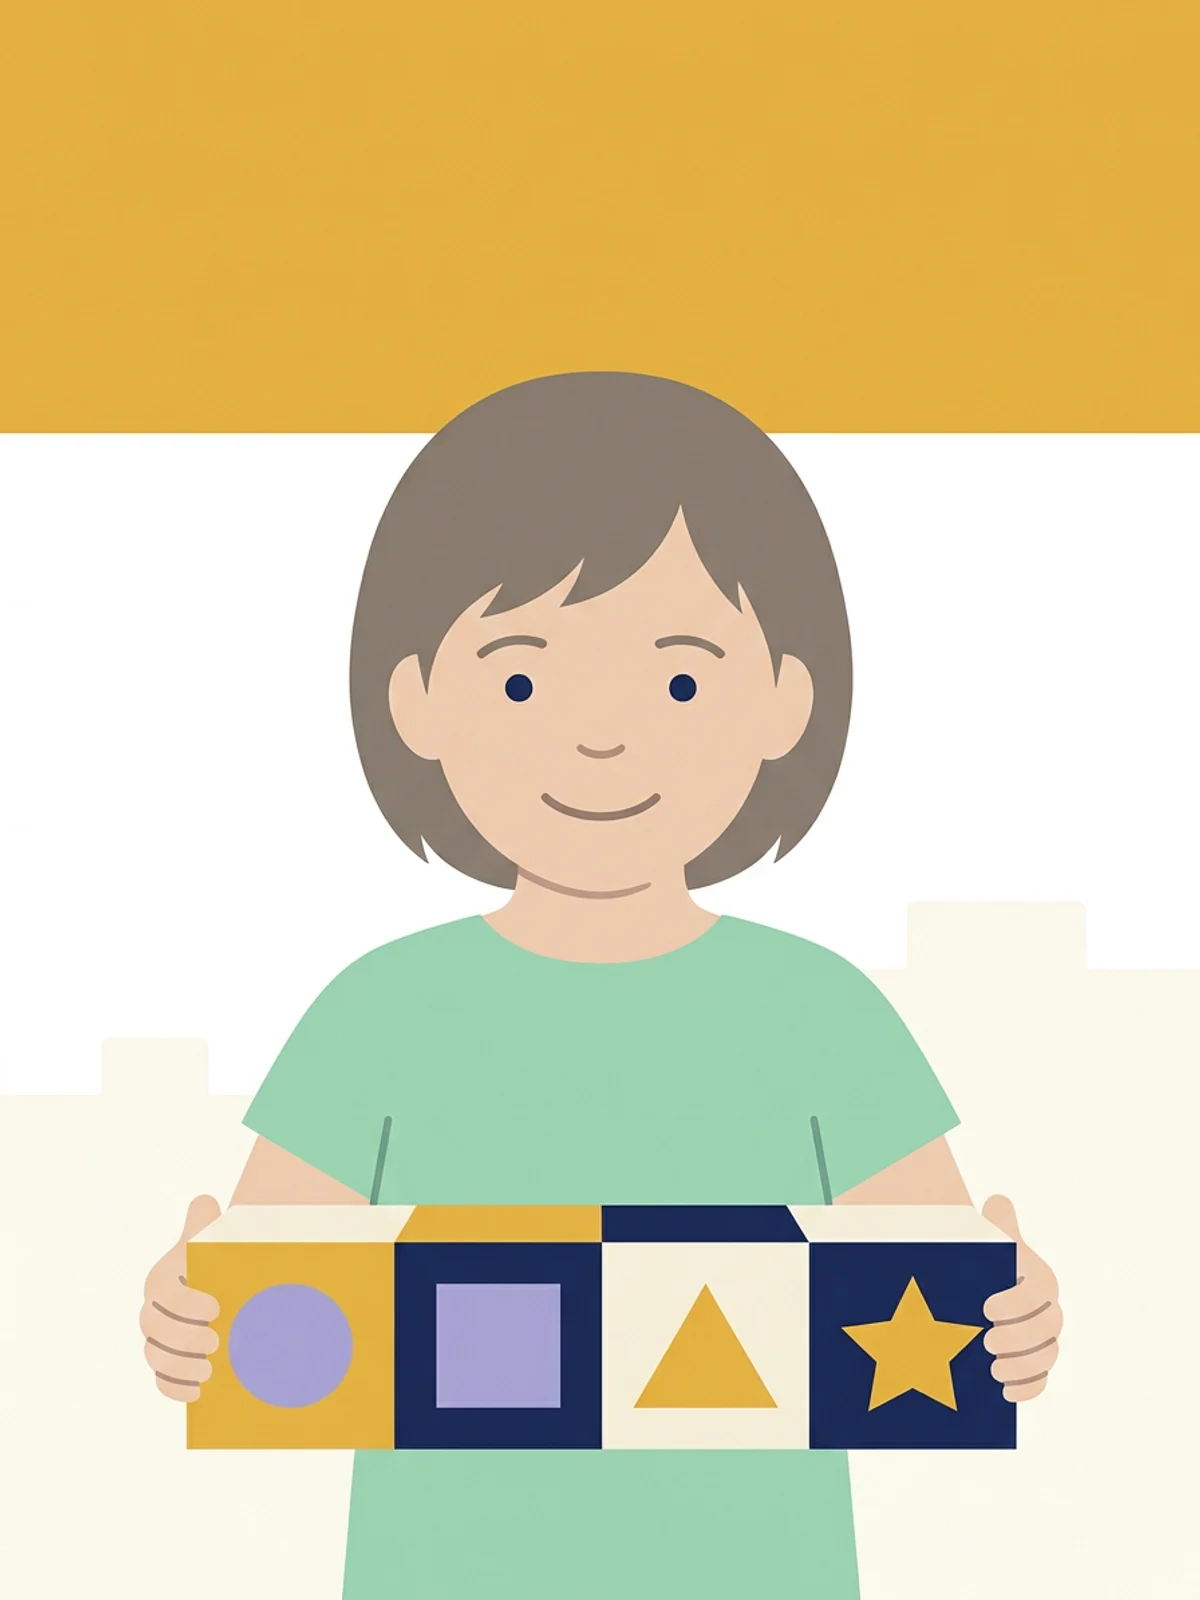
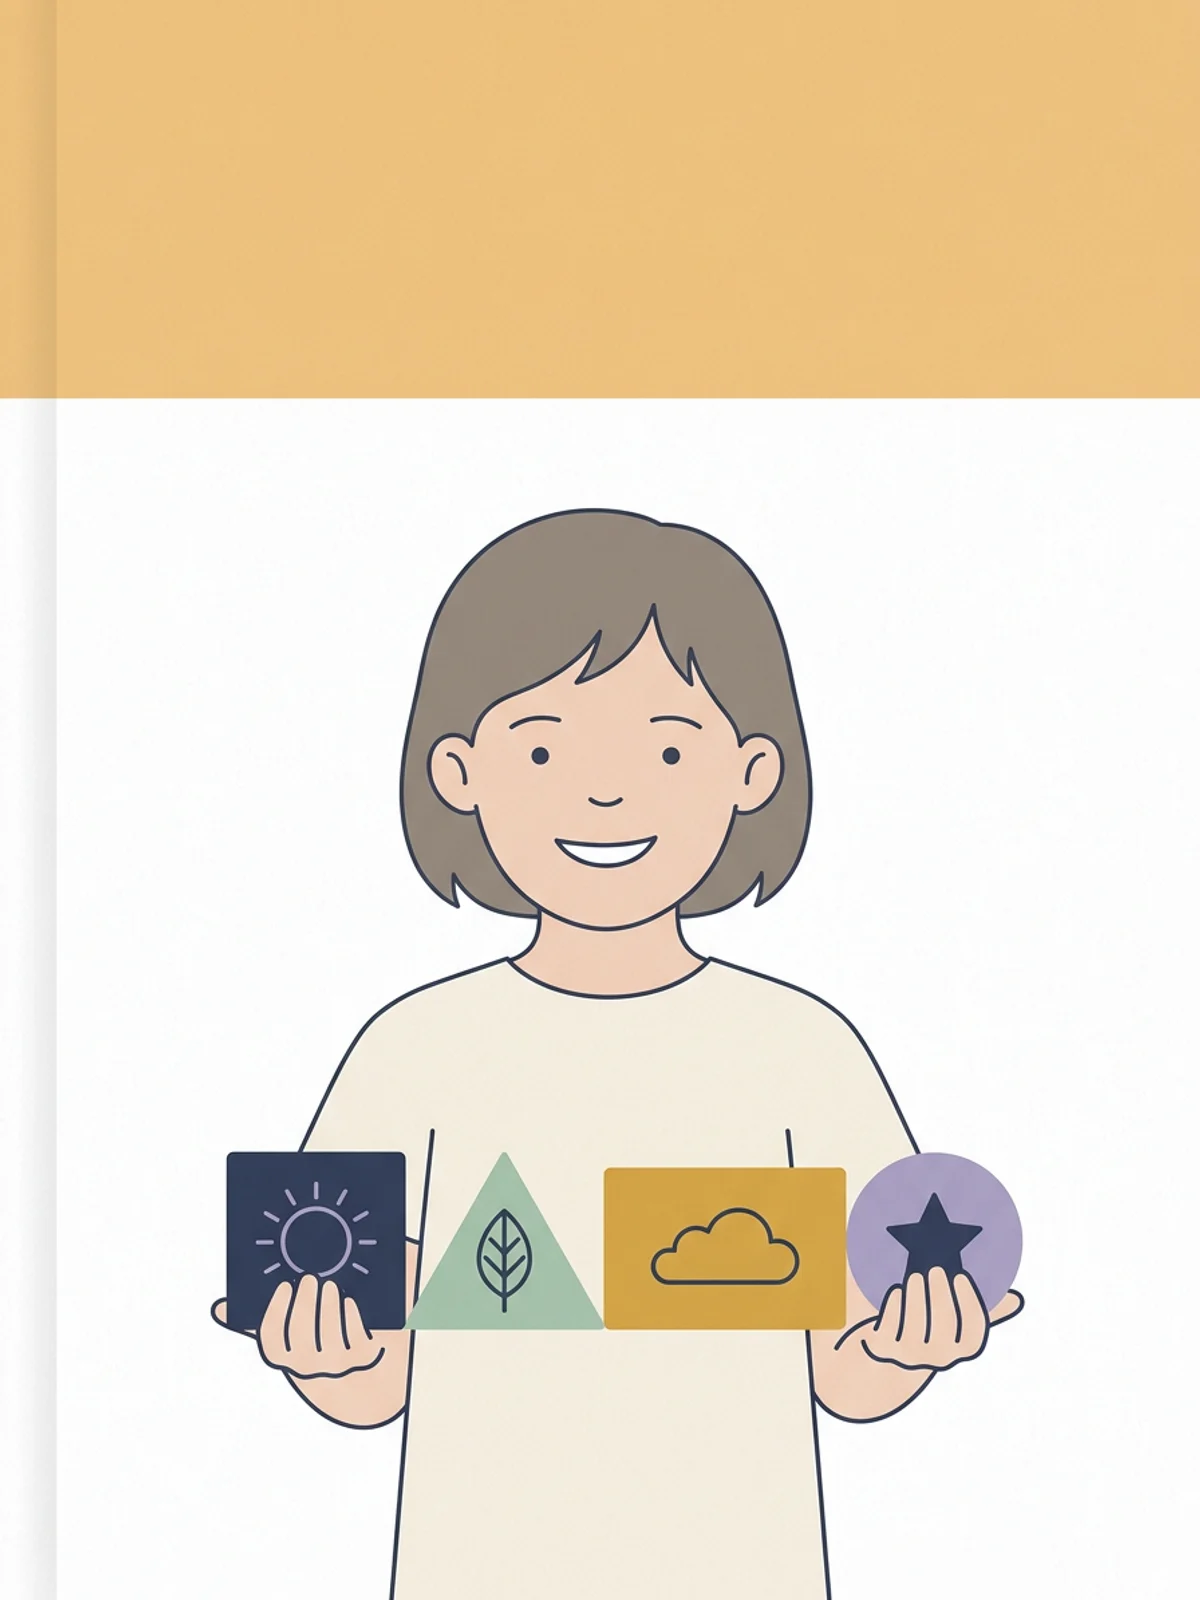
Celebraciones y Profesionales: estilo suave en gouache y minimal, 8 portadas (DECISIONS 257)
Claude-Session: https://claude.ai/code/session_01PcRD3uFYBq84axDNUisoiR

diff --git a/packages/providers/scripts/generate-brand-images.ts b/packages/providers/scripts/generate-brand-images.ts
@@ -29,8 +29,8 @@ const { values, positionals } = parseArgs({
 const OUT = path.resolve(positionals[0] ?? 'brand-images');
 
 // --- Dirección de arte (archivo 01) -------------------------------------------------------------
-const GOUACHE = `Gouache editorial children's picture-book illustration. Opaque matte paint with visible brush texture and subtle paper grain, bold simple shapes, confident outlines only where needed, slightly imperfect hand-made edges. Limited palette of 4-5 colors chosen from: navy, coral, terracotta, mustard, mint, lavender, cream. Simple background with one or two story elements and generous empty space. Even soft daylight, flat lighting. Characters with rounded proportions (head about one quarter of the body), friendly expressive faces, dot eyes with a small highlight.`;
-const MINIMAL = `Minimal graphic children's book illustration. Flat shapes, clean even line, no texture except a very subtle paper grain, lots of white space, calm composition. Palette of 3-4 colors from: navy, lavender, mint, mustard, cream. Clear readable facial expressions, simple neutral clothing, no busy background.`;
+const GOUACHE = `Gouache editorial children's picture-book illustration. Opaque matte paint with visible brush texture and subtle paper grain, bold simple shapes, confident outlines only where needed, slightly imperfect hand-made edges. Limited palette of 4-5 colors chosen from: navy, coral, terracotta, mustard, mint, lavender, cream, all slightly softened like printed paint; no pure primary red, blue or yellow, no neon, no candy colors. Simple background with one or two story elements and generous empty space. Even soft daylight, flat lighting. Characters with rounded proportions (head about one quarter of the body), friendly expressive faces, small dark dot eyes without glossy highlights, natural cheeks with no perfect round blush circles.`;
+const MINIMAL = `Minimal graphic children's book illustration. Flat shapes, clean even line, no texture except a very subtle paper grain, lots of white space, calm composition. Palette of 3-4 muted colors from: navy, lavender, mint, mustard, cream; no pure primaries, no large areas of saturated yellow. Clear readable facial expressions, simple neutral clothing, no busy background.`;
 const BLACKLIST = `Avoid: watercolor bleeds, soft pastel haze, glow, bloom, sparkles, glitter, fireflies, magic trails, bokeh, sunset gradients, lens flare, rim light, 3D render or Pixar look, plastic skin, hyper-detailed backgrounds, torn-paper borders, painted frames, text or letters, watermarks, extra fingers. NEVER draw color swatches, palette chips, hex codes, labels or captions anywhere in the image.`;
 
 const BG: Record<string, string> = {
@@ -278,13 +278,13 @@ const JOBS: Job[] = [
     'secreto-del-fondo-del-mar',
     GOUACHE,
     'mint',
-    `${at('sofi', 5)} swims underwater inside a clear round bubble helmet next to a big friendly sea turtle. Two coral plants and a small treasure chest. Flat blues and terracotta.`,
+    `${at('sofi', 5)} swims underwater inside a clear round bubble helmet next to a big friendly sea turtle. Two coral plants and a small treasure chest. Muted teal-blue water and soft terracotta, no bright orange. Full-bleed illustration that fills the whole canvas edge to edge: no inset panel, margin, border or frame.`,
   ),
   cover(
     'superheroe-por-un-dia',
     GOUACHE,
-    'mustard',
-    `${at('benja', 5)} in a coral cape and a navy eye mask stands on a rooftop with fists on hips, a small cat on the chimney looking at him admiringly. Two simple houses below.`,
+    'ochreSoft',
+    `${at('benja', 5)} in a dusty coral cape and a navy eye mask stands on a rooftop with fists on hips, a small cat on the chimney looking at him admiringly. Two simple houses below. Full-bleed illustration that fills the whole canvas edge to edge: no inset panel, margin, border or frame.`,
   ),
   cover(
     'la-gran-carrera',
@@ -355,8 +355,8 @@ const JOBS: Job[] = [
   cover(
     'el-volcan-del-enojo',
     GOUACHE,
-    'mustard',
-    `${at('sofi', 5)} stands with fists clenched and puffed red cheeks, taking a deep breath; beside her a small friendly volcano as tall as she is, letting out one puff of red smoke. Flat shapes, no fire glow.`,
+    'ochreSoft',
+    `${at('sofi', 5)} stands with fists clenched and slightly flushed puffed cheeks, taking a deep breath; beside her a small friendly volcano as tall as she is, letting out one puff of soft terracotta smoke. Thin hand-made brown outlines, no thick black outline, no round blush circles, no fire glow.`,
   ),
   cover(
     'el-diente-que-se-cayo',
@@ -442,8 +442,8 @@ const JOBS: Job[] = [
   cover(
     'las-letras-de-mi-nombre',
     MINIMAL,
-    'mustard',
-    `${GENERIC} holds four big flat building blocks, each with a different simple shape on it (no readable letters), lined up like the letters of a name, proud smile.`,
+    'ochreSoft',
+    `${GENERIC} holds four big flat building blocks in muted navy, sage, ochre and lavender, each with a different simple shape on it (no readable letters), lined up like the letters of a name, proud smile.`,
     true,
   ),
   cover(
@@ -457,7 +457,7 @@ const JOBS: Job[] = [
     'detective-de-palabras',
     MINIMAL,
     'lavender',
-    `${GENERIC} holds a magnifying glass over a big open book, a few empty flat speech-bubble shapes floating above, curious expression. No text.`,
+    `${GENERIC} holds a magnifying glass over a big open book, a few empty flat speech-bubble shapes floating above, curious expression. No text. Full-bleed illustration that fills the whole canvas edge to edge: do not draw a book, card, page, frame, border or mockup inside the image.`,
     true,
   ),
   cover(
@@ -499,7 +499,7 @@ const JOBS: Job[] = [
     'hermano-mayor-pro',
     MINIMAL,
     'lavender',
-    `${GENERIC} sits on a simple sofa holding a small wrapped baby carefully in both arms, looking down gently. Calm, tender, minimal graphic style.`,
+    `${GENERIC} sits on a simple sofa holding a small wrapped baby carefully in both arms, looking down gently. Calm, tender, minimal graphic style. Full-bleed illustration that fills the whole canvas edge to edge: do not draw a book, card, page, frame, border or mockup inside the image.`,
     true,
   ),
   cover(
@@ -571,7 +571,7 @@ const JOBS: Job[] = [
     'el-jardin-de-las-emociones',
     MINIMAL,
     'mint',
-    `${GENERIC} kneels in a simple garden where five flowers each have a different simple face (happy, sad, angry, scared, calm); the child touches the calm one.`,
+    `${GENERIC} kneels in a simple garden where five flowers each have a different simple face (happy, sad, angry, scared, calm); the child touches the calm one. Soft sage and pale ochre ground, no saturated yellow field. Full-bleed illustration that fills the whole canvas edge to edge: do not draw a book, card, page, frame, border or mockup inside the image.`,
     true,
   ),
   cover(
@@ -585,7 +585,7 @@ const JOBS: Job[] = [
     'mi-visita-al-dentista',
     MINIMAL,
     'mint',
-    `${GENERIC} sits in a simple dental chair, smiling with a hand mirror, while a friendly dentist (mask down, kind eyes) shows a toothbrush. Very simple clean room.`,
+    `${GENERIC} sits in a simple dental chair, smiling with a hand mirror, while a friendly dentist (mask down, kind eyes) shows a toothbrush. Very simple clean room. Full-bleed illustration that fills the whole canvas edge to edge: do not draw a book, card, page, frame, border or mockup inside the image.`,
     true,
   ),
   cover(

diff --git a/docs/DECISIONS.md b/docs/DECISIONS.md
@@ -2742,3 +2742,4 @@ Los umbrales (`DEFAULT_PAGE_LAYOUT`: 9 años, 6 años, 45 palabras) son configur
 - **Cambio:** `ageDirection` 0–2 pide contraste oscuro contra claro, colores cálidos algo suavizados con un acento por escena, sin primarios puros y con contorno a mano en marrón oscuro; la línea de paleta pide «warm and harmonious like printed paint, slightly softened» sin primarios, neón ni colores caramelo (los pasteles lavados siguen prohibidos); `Avoid` suma brillos en los ojos, cachetes redondos perfectos y caras de muñeca simétricas; `STORY_PALETTES` baja la saturación de magic, adventure, bedtime, nature y celebration (explorer y learning quedan). El Cartoon 3D ya no pide «vibrant colors».
 - **Portadas:** las 7 de Bebés se regeneran con el estilo nuevo (`generate-brand-images.ts`, BABY y fondos nuevos).
 - **Alcance:** libros y muestras nuevos. Los congelados (muestra aprobada o pedido) conservan su dirección de arte.
+- **Celebraciones y Profesionales (misma fecha):** la regla se extiende a los estilos `GOUACHE` y `MINIMAL` de las portadas: paleta algo suavizada, sin primarios puros, neón ni amarillo saturado en grandes áreas, ojos sin brillo y sin cachetes en círculo perfecto. Se regeneran solo las 8 portadas que se salían: las más saturadas («Superhéroe por un día», «El secreto del fondo del mar», «El volcán del enojo», «Las letras de mi nombre», «El jardín de las emociones») y las 4 de Profesionales que dibujaban un libro o una tarjeta dentro de la portada (Detective de palabras, Hermano mayor pro, El jardín de las emociones, Mi visita al dentista; ahora «full-bleed», sin marco). Las demás quedan; la nena genérica repetida de Profesionales queda pendiente.
